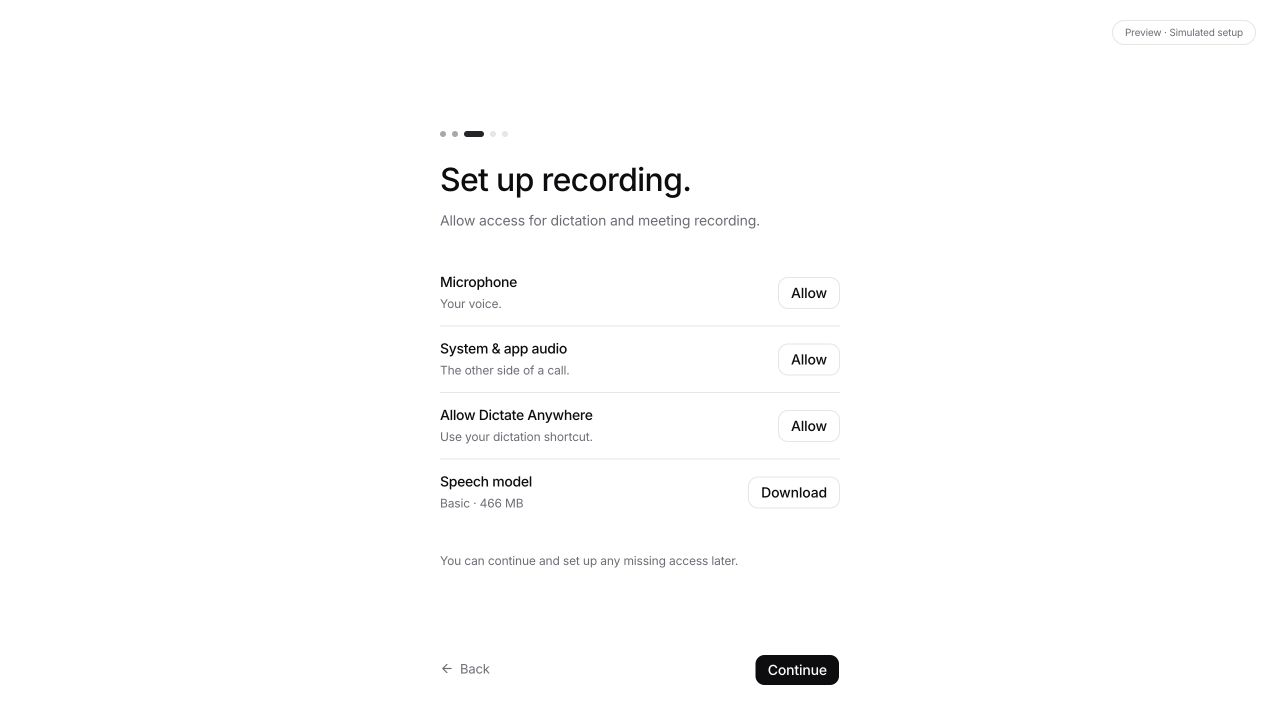
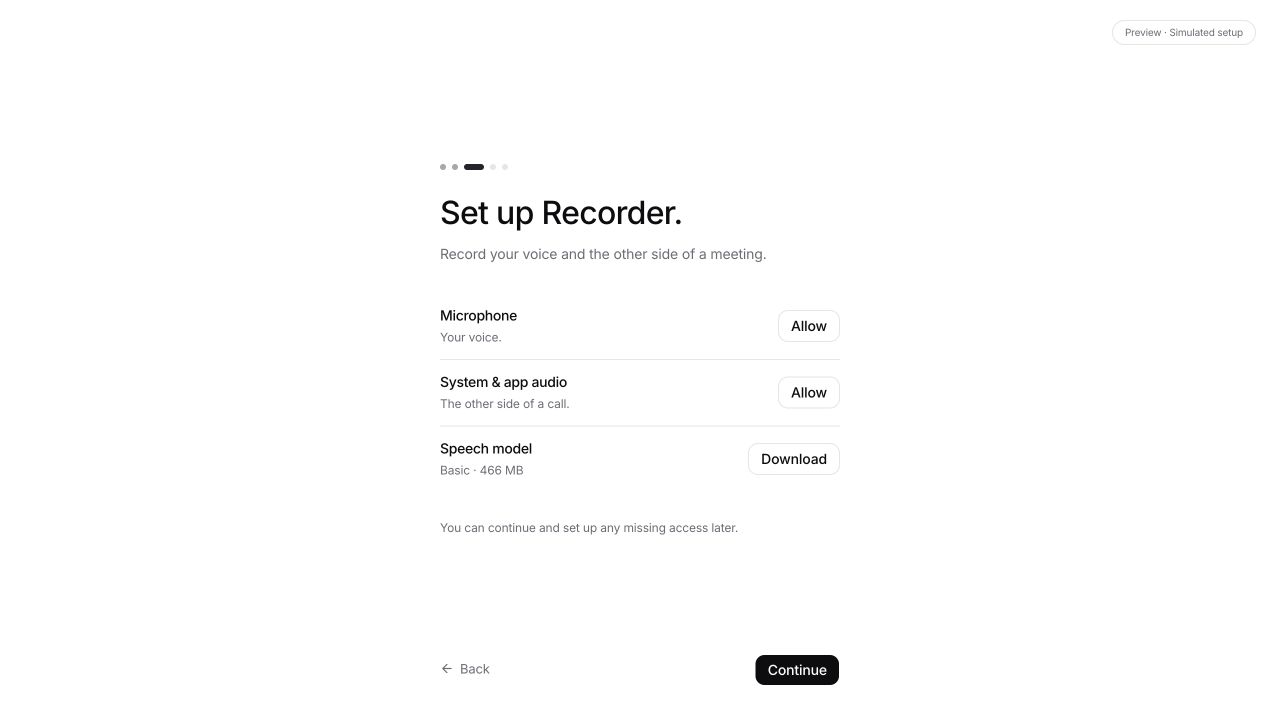
fix(onboarding): separate Recorder and Dictate Anywhere permissions

diff --git a/apps/app/src/react-app/domains/onboarding/audio-step.tsx b/apps/app/src/react-app/domains/onboarding/audio-step.tsx
@@ -19,7 +19,7 @@ import {
 import type { AudioDictationPermissionKind, AudioPermissionState } from "@legalwork/types/audio";
 
 import { RecorderFlow } from "./recorder-flow";
-import { dictationPermissionReady, dictationPermissionsReady, onboardingDictationPermissions, type DictationSetupPermission } from "./recorder-permissions";
+import { dictationPermissionReady, dictationPermissionsReady, dictationSetupPermissions, onboardingDictationPermissions, type DictationSetupPermission } from "./recorder-permissions";
 import { MODEL_TIERS, tierName } from "../recorder/model-tiers";
 import { recommendedTier } from "../recorder/recorder-setup";
 import { useRecorderStore } from "../recorder/recorder-store";
@@ -36,7 +36,7 @@ type SimState = {
   sys: AudioPermissionState;
   sysWaiting: boolean;
   model: "not-installed" | "downloading" | "installed";
-  dictationPermissions: boolean;
+  dictationPermissions: Record<DictationSetupPermission, boolean>;
   progress: number; // 0..1 while downloading
 };
 
@@ -56,7 +56,7 @@ export function AudioStep(props: {
     sys: "not-determined",
     sysWaiting: false,
     model: "not-installed",
-    dictationPermissions: false,
+    dictationPermissions: { inputMonitoring: false, accessibility: false, automation: false },
     progress: 0,
   });
   const [micBusy, setMicBusy] = useState(false);
@@ -131,8 +131,8 @@ export function AudioStep(props: {
   const pct = totalBytes > 0 ? Math.round((downloadedBytes / totalBytes) * 100) : 0;
 
   const readiness = store.dictationReadiness;
-  const extraPermissions = onboardingDictationPermissions(readiness);
-  const nativeDictationReady = demo ? sim.dictationPermissions : dictationPermissionsReady(readiness);
+  const extraPermissions = demo ? dictationSetupPermissions : onboardingDictationPermissions(readiness);
+  const nativeDictationReady = demo ? dictationSetupPermissions.every(kind => sim.dictationPermissions[kind]) : dictationPermissionsReady(readiness);
   const permissionViews: Record<DictationSetupPermission, { title: string; body: string }> = {
     inputMonitoring: { title: t("onboarding_audio.permission_monitor_title"), body: t("onboarding_audio.permission_shortcut") },
     accessibility: { title: t("onboarding_audio.permission_a11y_title"), body: t("onboarding_audio.permission_insert") },
@@ -223,8 +223,8 @@ export function AudioStep(props: {
       modelReady={modelInstalled}
       onBack={props.onBack}
       onDone={() => props.onDone(modelDownloading ? "background" : allDone ? "enabled" : "skipped")}
-      permissions={
-        <div className="divide-y divide-dls-border" data-testid="onboarding-recorder-permissions">
+      recorderPermissions={
+        <div className="divide-y divide-dls-border" data-testid="onboarding-recorder-grants">
           <PermissionRow title={t("recorder.perm_microphone")} description={t("onboarding_audio.permission_microphone")} done={micDone} hint={micBlocked ? t("recorder.perm_microphone_instructions") : null}>
             <Button size="sm" variant="outline" disabled={requestingMic} onClick={allowMicrophone}>
               {requestingMic ? <Loader2 className="size-3.5 animate-spin" /> : null}
@@ -237,18 +237,6 @@ export function AudioStep(props: {
               {t("recorder.perm_allow")}
             </Button>
           </PermissionRow> : null}
-          {extraPermissions.map(kind => <PermissionRow key={kind} title={permissionViews[kind].title} description={permissionViews[kind].body} done={dictationPermissionReady(readiness?.[kind] ?? "not-determined")} hint={kind === "inputMonitoring" && (readiness?.[kind] === "broken" || readiness?.[kind] === "denied") ? t(readiness[kind] === "broken" ? "recorder.dictation_step_monitor_broken" : "recorder.dictation_step_monitor_denied") : null}>
-            <Button size="sm" variant="outline" disabled={requestingDictation !== null} onClick={() => {
-              setRequestingDictation(kind);
-              void store.requestDictationPermission(kind).finally(() => setRequestingDictation(null));
-            }}>
-              {requestingDictation === kind ? <Loader2 className="size-3.5 animate-spin" /> : null}
-              {t("recorder.perm_allow")}
-            </Button>
-          </PermissionRow>)}
-          {demo ? <PermissionRow title={t("onboarding_audio.dictation_permissions_title")} description={t("onboarding_audio.permission_shortcut")} done={sim.dictationPermissions}>
-            <Button size="sm" variant="outline" onClick={() => setSim(state => ({ ...state, dictationPermissions: true }))}>{t("recorder.perm_allow")}</Button>
-          </PermissionRow> : null}
           <PermissionRow title={t("onboarding_audio.model_title")} description={modelDownloading ? `${pct}% · ${t("onboarding_audio.background_note")}` : modelInstalled ? t("onboarding_audio.model_local") : `${tierName(recommended.key)} · ${modelSize}`} done={modelInstalled} hint={!demo && recommendedModel?.state === "error" ? recommendedModel.error : null}>
             {modelDownloading ? <div className="flex w-full items-center gap-2">
               <Progress value={pct} className="h-1 flex-1" />
@@ -256,7 +244,21 @@ export function AudioStep(props: {
               <Button variant="ghost" size="icon-sm" aria-label={t("recorder.model_cancel")} onClick={cancelDownload}><X /></Button>
             </div> : <Button size="sm" variant="outline" onClick={startDownload}>{t("recorder.model_download")}</Button>}
           </PermissionRow>
-          {!demo && readiness?.packaged === false && !nativeDictationReady ? <p className="pt-3 text-xs leading-relaxed text-subtext">{t("recorder.perm_dev_hint")}</p> : null}
+        </div>
+      }
+      dictationPermissions={
+        <div className="divide-y divide-dls-border" data-testid="onboarding-dictation-permissions">
+          {extraPermissions.map(kind => <PermissionRow key={kind} title={permissionViews[kind].title} description={permissionViews[kind].body} done={demo ? sim.dictationPermissions[kind] : dictationPermissionReady(readiness?.[kind] ?? "not-determined")} hint={readiness?.[kind] === "broken" ? t("recorder.dictation_step_monitor_broken") : null}>
+            <Button size="sm" variant="outline" disabled={requestingDictation !== null} onClick={() => {
+              if (demo) { setSim(state => ({ ...state, dictationPermissions: { ...state.dictationPermissions, [kind]: true } })); return; }
+              setRequestingDictation(kind);
+              void store.requestDictationPermission(kind).finally(() => setRequestingDictation(null));
+            }}>
+              {requestingDictation === kind ? <Loader2 className="size-3.5 animate-spin" /> : null}
+              {t("recorder.perm_allow")}
+            </Button>
+          </PermissionRow>)}
+          {!demo && extraPermissions.length > 0 ? <p className="pt-3 text-xs leading-relaxed text-subtext">{t("recorder.perm_recheck_hint")}</p> : null}
         </div>
       }
     />

diff --git a/apps/app/src/react-app/domains/onboarding/recorder-flow.tsx b/apps/app/src/react-app/domains/onboarding/recorder-flow.tsx
@@ -14,7 +14,8 @@ import { CoverBackButton, OnboardingCover, StepDots } from "./onboarding-cover";
 export function RecorderFlow(props: {
   demo: boolean;
   loading: boolean;
-  permissions: ReactNode;
+  recorderPermissions: ReactNode;
+  dictationPermissions: ReactNode;
   microphoneReady: boolean;
   permissionsReady: boolean;
   modelReady: boolean;
@@ -54,9 +55,14 @@ export function RecorderFlow(props: {
       </div>
 
       {section === "permissions" ? <>
-        {props.permissions}
-        <p className="text-xs text-subtext">{t(props.microphoneReady && props.permissionsReady && props.modelReady ? "onboarding_audio.subtitle" : "onboarding_audio.permissions_optional")}</p>
+        {props.recorderPermissions}
+        <p className="text-xs text-subtext">{t(props.microphoneReady && props.modelReady ? "onboarding_audio.subtitle" : "onboarding_audio.permissions_optional")}</p>
       </> : section === "dictation" ? <div className="space-y-5">
+        {!props.permissionsReady ? props.dictationPermissions : null}
+        {!props.microphoneReady ? <div className="space-y-2">
+          <p className="text-xs text-subtext">{t("onboarding_audio.dictation_microphone_needed")}</p>
+          <Button variant="outline" size="sm" onClick={() => setSection("permissions")}>{t("onboarding_audio.setup_microphone")}</Button>
+        </div> : null}
         <label className="flex cursor-pointer items-center justify-between gap-4 border-b border-dls-border pb-4 text-sm font-medium">
           {t("onboarding_audio.enable_dictation")}
           <Switch aria-label={t("onboarding_audio.enable_dictation")} checked={enabled}
@@ -67,14 +73,10 @@ export function RecorderFlow(props: {
               void store.setSystemDictationEnabled(checked).finally(() => setChanging(false));
             }} />
         </label>
-        {!ready ? <div className="space-y-2">
-          <p className="text-xs leading-relaxed text-subtext">{t("onboarding_audio.dictation_permissions_needed")}</p>
-          <Button variant="outline" size="sm" onClick={() => setSection("permissions")}>{t("onboarding_audio.review_permissions")}</Button>
-        </div> : null}
         {enabled ? <>
           <div>
             <p className="mb-2 text-xs font-medium text-foreground">{t("recorder.dictation_shortcut_setting")}</p>
-            <DictationShortcutControl compact demo={props.demo} disabled={dictation.active} onConfigured={() => input.current?.focus()} />
+            <DictationShortcutControl compact demo={props.demo} disabled={dictation.active || !ready} onConfigured={() => input.current?.focus()} />
             <p className="mt-2 text-xs leading-relaxed text-subtext">{t(store.systemDictation?.supportsHold === false && !props.demo ? "recorder.dictation_gestures_fallback" : "onboarding_audio.shortcut_gestures")}</p>
           </div>
           <div>
@@ -90,7 +92,7 @@ export function RecorderFlow(props: {
               {text.trim() ? <Check className="size-3.5 text-success" /> : null}
               {t(text.trim() ? "onboarding_audio.test_result" : !props.modelReady ? "onboarding_audio.test_model_needed" : "onboarding_audio.test_private")}
             </p>}
-            {!props.modelReady ? <button type="button" className="mt-2 text-xs text-primary hover:underline" onClick={() => setSection("permissions")}>{t("onboarding_audio.review_permissions")}</button> : null}
+            {!props.modelReady ? <button type="button" className="mt-2 text-xs text-primary hover:underline" onClick={() => setSection("permissions")}>{t("onboarding_audio.setup_model")}</button> : null}
             {dictation.error ? <p role="alert" className="mt-2 text-xs text-destructive">{dictation.error}</p> : null}
           </div>
         </> : <p className="text-xs text-subtext">{t("onboarding_audio.change_later")}</p>}

diff --git a/apps/app/src/i18n/locales/de.ts b/apps/app/src/i18n/locales/de.ts
@@ -4711,8 +4711,8 @@ const de = {
   "onboarding_office.panel_eyebrow": "In Ihren Werkzeugen",
   "onboarding_office.panel_title": "Der Agent, direkt neben Ihrem Dokument.",
   "onboarding_office.panel_footer": "Word · Excel · PowerPoint",
-  "onboarding_audio.permissions_title": "Aufnahmen einrichten.",
-  "onboarding_audio.permissions_subtitle": "Erlauben Sie den Zugriff für Diktate und Besprechungen.",
+  "onboarding_audio.permissions_title": "Rekorder einrichten.",
+  "onboarding_audio.permissions_subtitle": "Nehmen Sie Ihre Stimme und die andere Seite einer Besprechung auf.",
   "onboarding_audio.permissions_optional": "Sie können fortfahren und fehlende Zugriffe später einrichten.",
   "onboarding_audio.permission_microphone": "Ihre Stimme.",
   "onboarding_audio.permission_system": "Die andere Seite eines Gesprächs.",
@@ -4728,10 +4728,10 @@ const de = {
   "onboarding_audio.meetings_title": "Meetings aufnehmen.",
   "onboarding_audio.meetings_subtitle": "LegalWork erkennt Anrufe und bietet Ihnen die Aufnahme an.",
   "onboarding_audio.meetings_manual_start": "Die Aufnahme beginnt erst, wenn Sie auf Aufnehmen klicken.",
-  "onboarding_audio.dictation_permissions_title": "Überall diktieren erlauben",
+  "onboarding_audio.dictation_microphone_needed": "Auch zum Diktieren wird der Mikrofonzugriff benötigt.",
+  "onboarding_audio.setup_microphone": "Mikrofon einrichten",
+  "onboarding_audio.setup_model": "Sprachmodell herunterladen",
   "onboarding_audio.dictation_description": "Sprechen Sie in jeder App und fügen Sie den Text per Tastenkürzel ein.",
-  "onboarding_audio.dictation_permissions_needed": "Erlauben Sie den Zugriff auf Mikrofon und Tastenkürzel, um Diktieren zu aktivieren.",
-  "onboarding_audio.review_permissions": "Berechtigungen prüfen",
   "onboarding_audio.shortcut_gestures": "Zum Sprechen gedrückt halten. Zweimal tippen für freihändiges Diktieren. Einmal drücken zum Beenden.",
   "onboarding_audio.test_result": "Sie können Ihren Text bearbeiten.",
   "onboarding_audio.test_model_needed": "Installieren Sie ein Sprachmodell, um das Diktieren zu testen.",

diff --git a/apps/app/src/i18n/locales/en.ts b/apps/app/src/i18n/locales/en.ts
@@ -4432,8 +4432,8 @@ export default {
   "onboarding_office.panel_eyebrow": "In your tools",
   "onboarding_office.panel_title": "The agent, next to your document.",
   "onboarding_office.panel_footer": "Word · Excel · PowerPoint",
-  "onboarding_audio.permissions_title": "Set up recording.",
-  "onboarding_audio.permissions_subtitle": "Allow access for dictation and meeting recording.",
+  "onboarding_audio.permissions_title": "Set up Recorder.",
+  "onboarding_audio.permissions_subtitle": "Record your voice and the other side of a meeting.",
   "onboarding_audio.permissions_optional": "You can continue and set up any missing access later.",
   "onboarding_audio.permission_microphone": "Your voice.",
   "onboarding_audio.permission_system": "The other side of a call.",
@@ -4449,10 +4449,10 @@ export default {
   "onboarding_audio.meetings_title": "Record meetings.",
   "onboarding_audio.meetings_subtitle": "LegalWork can detect calls and offer to record them.",
   "onboarding_audio.meetings_manual_start": "Recording only starts when you choose Record.",
-  "onboarding_audio.dictation_permissions_title": "Allow Dictate Anywhere",
+  "onboarding_audio.dictation_microphone_needed": "Dictation also needs microphone access.",
+  "onboarding_audio.setup_microphone": "Set up microphone",
+  "onboarding_audio.setup_model": "Download speech model",
   "onboarding_audio.dictation_description": "Speak into any app and insert text with a shortcut.",
-  "onboarding_audio.dictation_permissions_needed": "Allow microphone and shortcut access to turn this on.",
-  "onboarding_audio.review_permissions": "Review permissions",
   "onboarding_audio.shortcut_gestures": "Hold to speak. Double-tap to go hands-free. Press once to finish.",
   "onboarding_audio.test_result": "You can edit your text.",
   "onboarding_audio.test_model_needed": "Install a speech model to try dictation.",

diff --git a/apps/app/tests/onboarding-recorder-scope.test.tsx b/apps/app/tests/onboarding-recorder-scope.test.tsx
@@ -1,0 +1,33 @@
+import { expect, test } from "bun:test";
+import React from "react";
+import { renderToStaticMarkup } from "react-dom/server";
+import { QueryClient, QueryClientProvider } from "@tanstack/react-query";
+import { AudioStep } from "../src/react-app/domains/onboarding/audio-step";
+import { useRecorderStore } from "../src/react-app/domains/recorder/recorder-store";
+
+test("Recorder setup does not ask for Dictate Anywhere permissions", () => {
+  const initial = useRecorderStore.getInitialState();
+  const previous = { ...initial };
+  Object.assign(initial, {
+    permissions: { platform: "darwin", packaged: true, microphone: "not-determined", systemAudio: "not-determined" },
+    dictationReadiness: { platform: "darwin", packaged: true, microphone: "not-determined", inputMonitoring: "not-determined", accessibility: "denied", automation: "not-determined" },
+  });
+  const queryClient = new QueryClient();
+  try {
+    const html = renderToStaticMarkup(
+      <QueryClientProvider client={queryClient}>
+        <AudioStep legalworkClient={null} workspaceId={null} onBack={() => {}} onDone={() => {}} />
+      </QueryClientProvider>,
+    );
+    expect(html).toContain("Microphone");
+    expect(html).toContain("System &amp; app audio");
+    expect(html).toContain("Speech model");
+    expect(html).not.toContain("Input Monitoring");
+    expect(html).not.toContain("Accessibility");
+    expect(html).not.toContain("Automation");
+    expect(html).not.toContain('data-testid="onboarding-dictation-permissions"');
+  } finally {
+    queryClient.clear();
+    Object.assign(initial, previous);
+  }
+});
